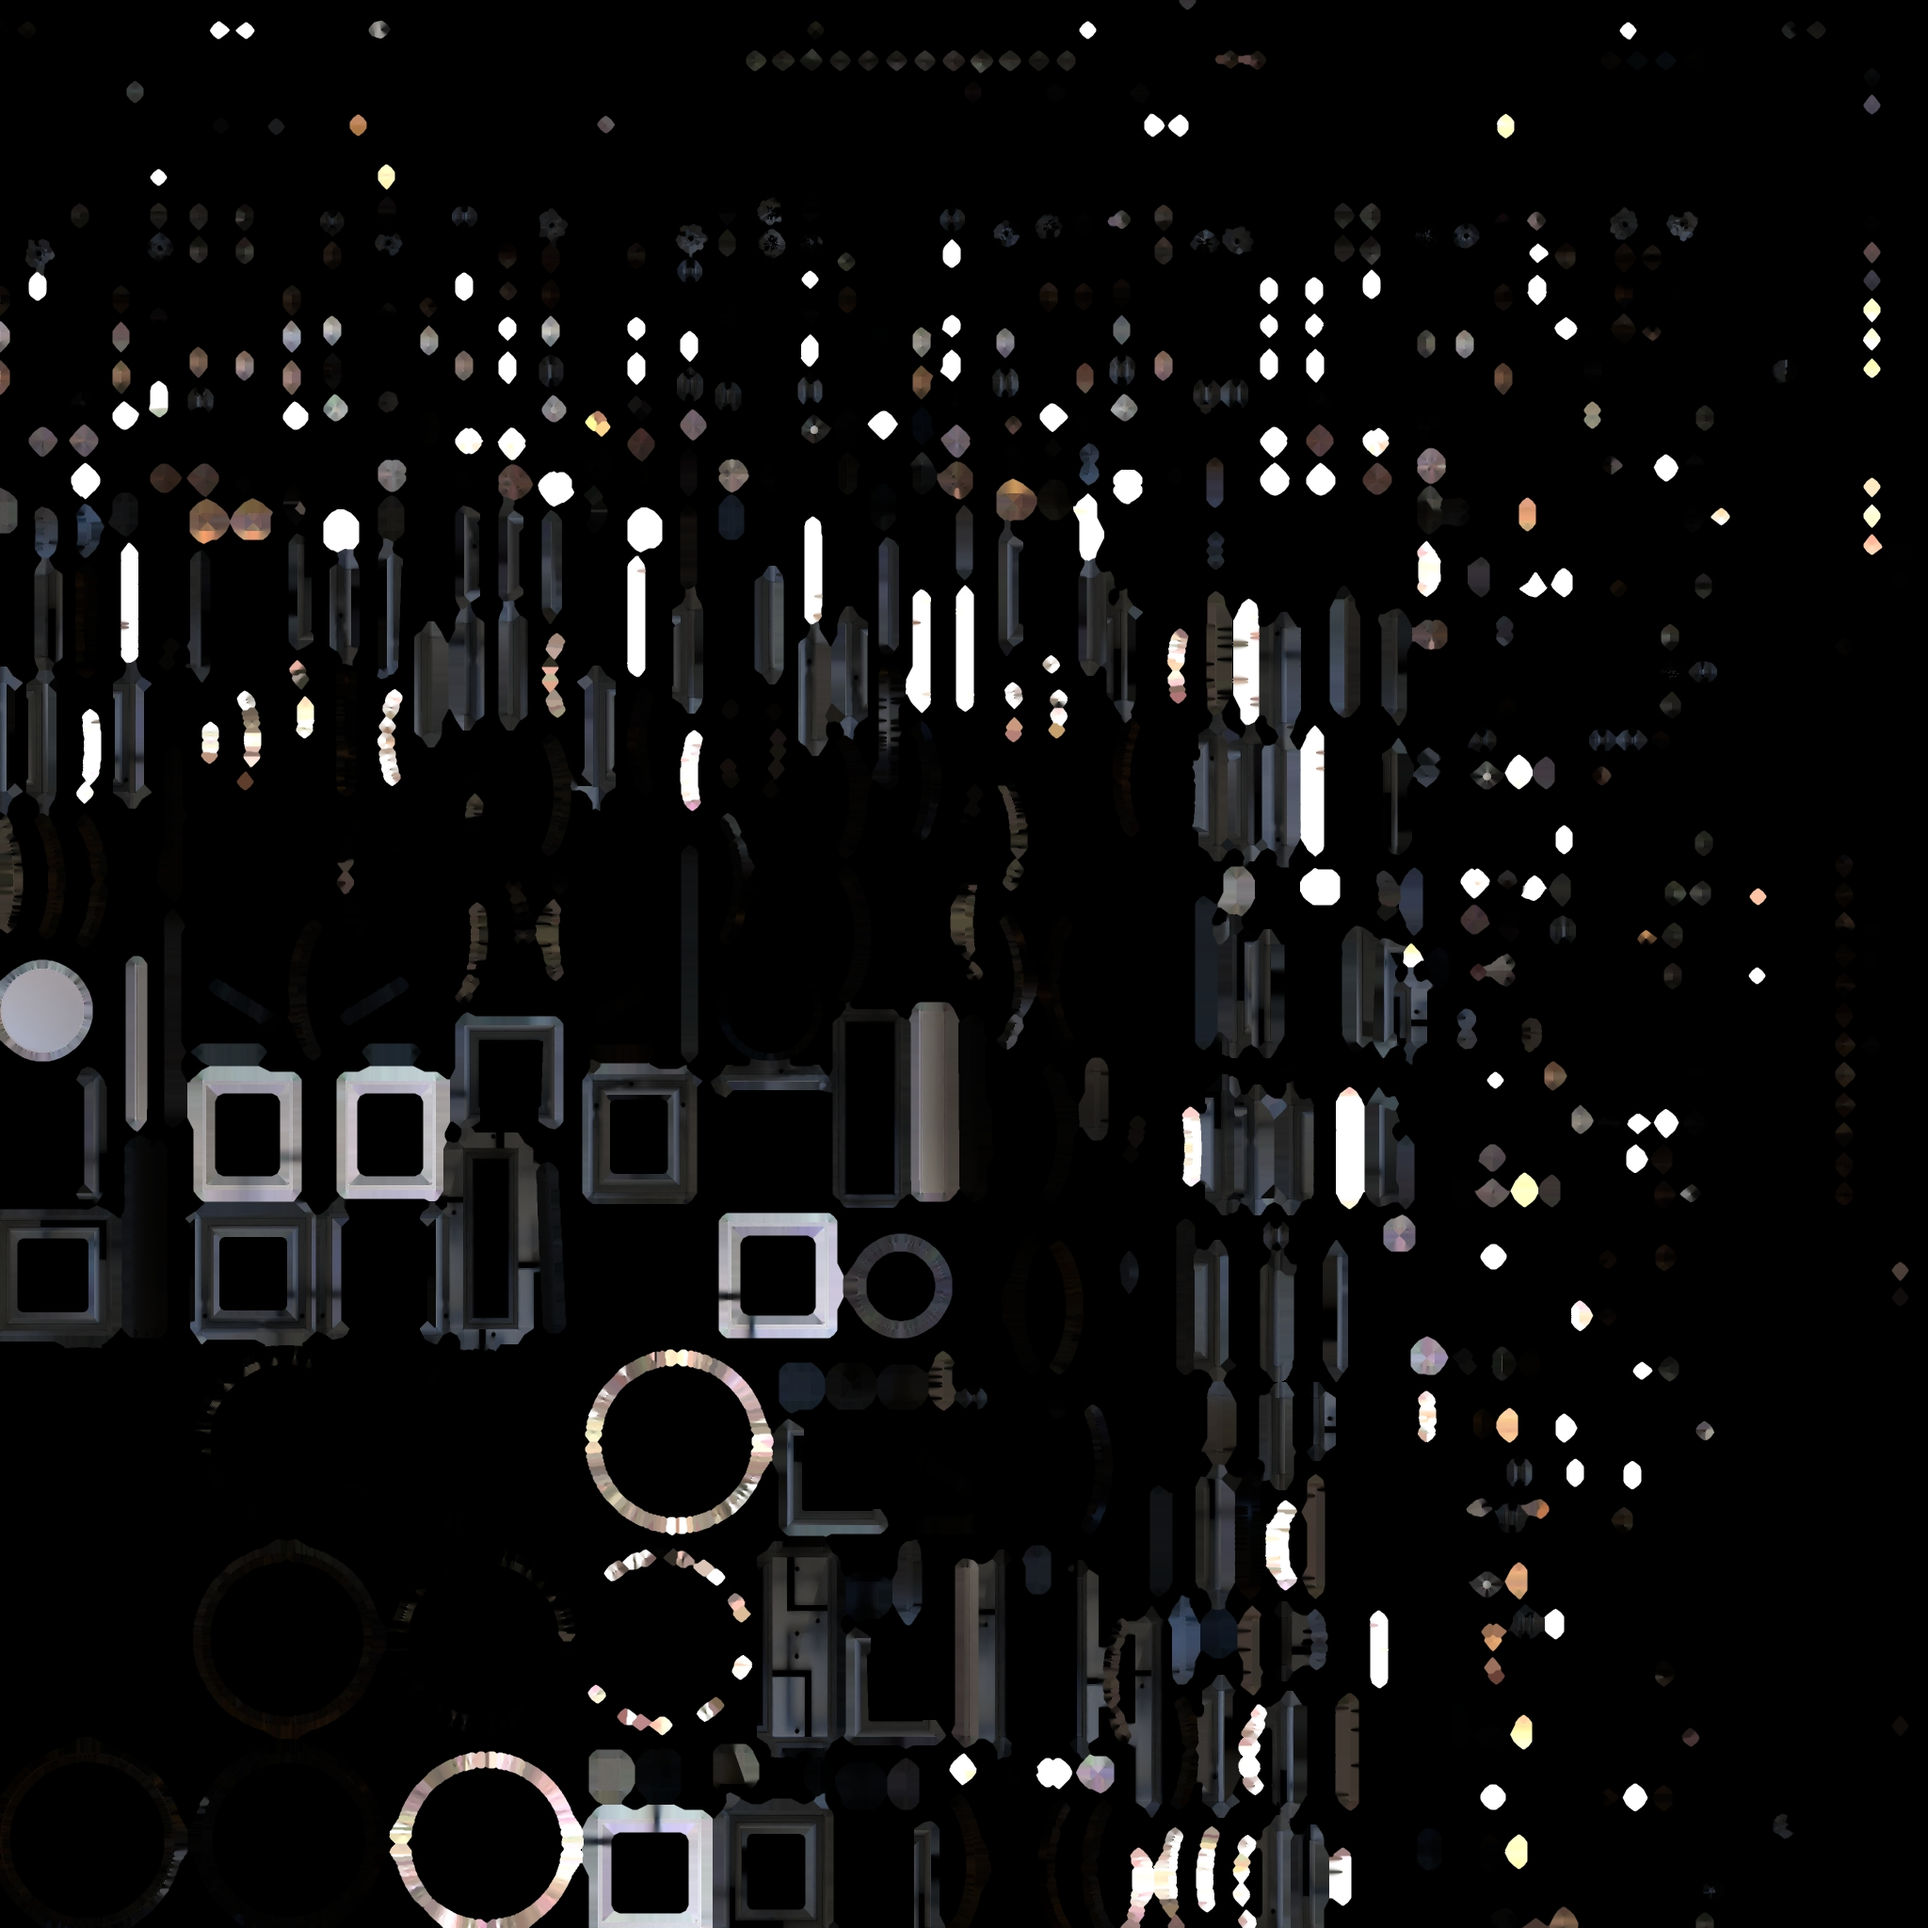
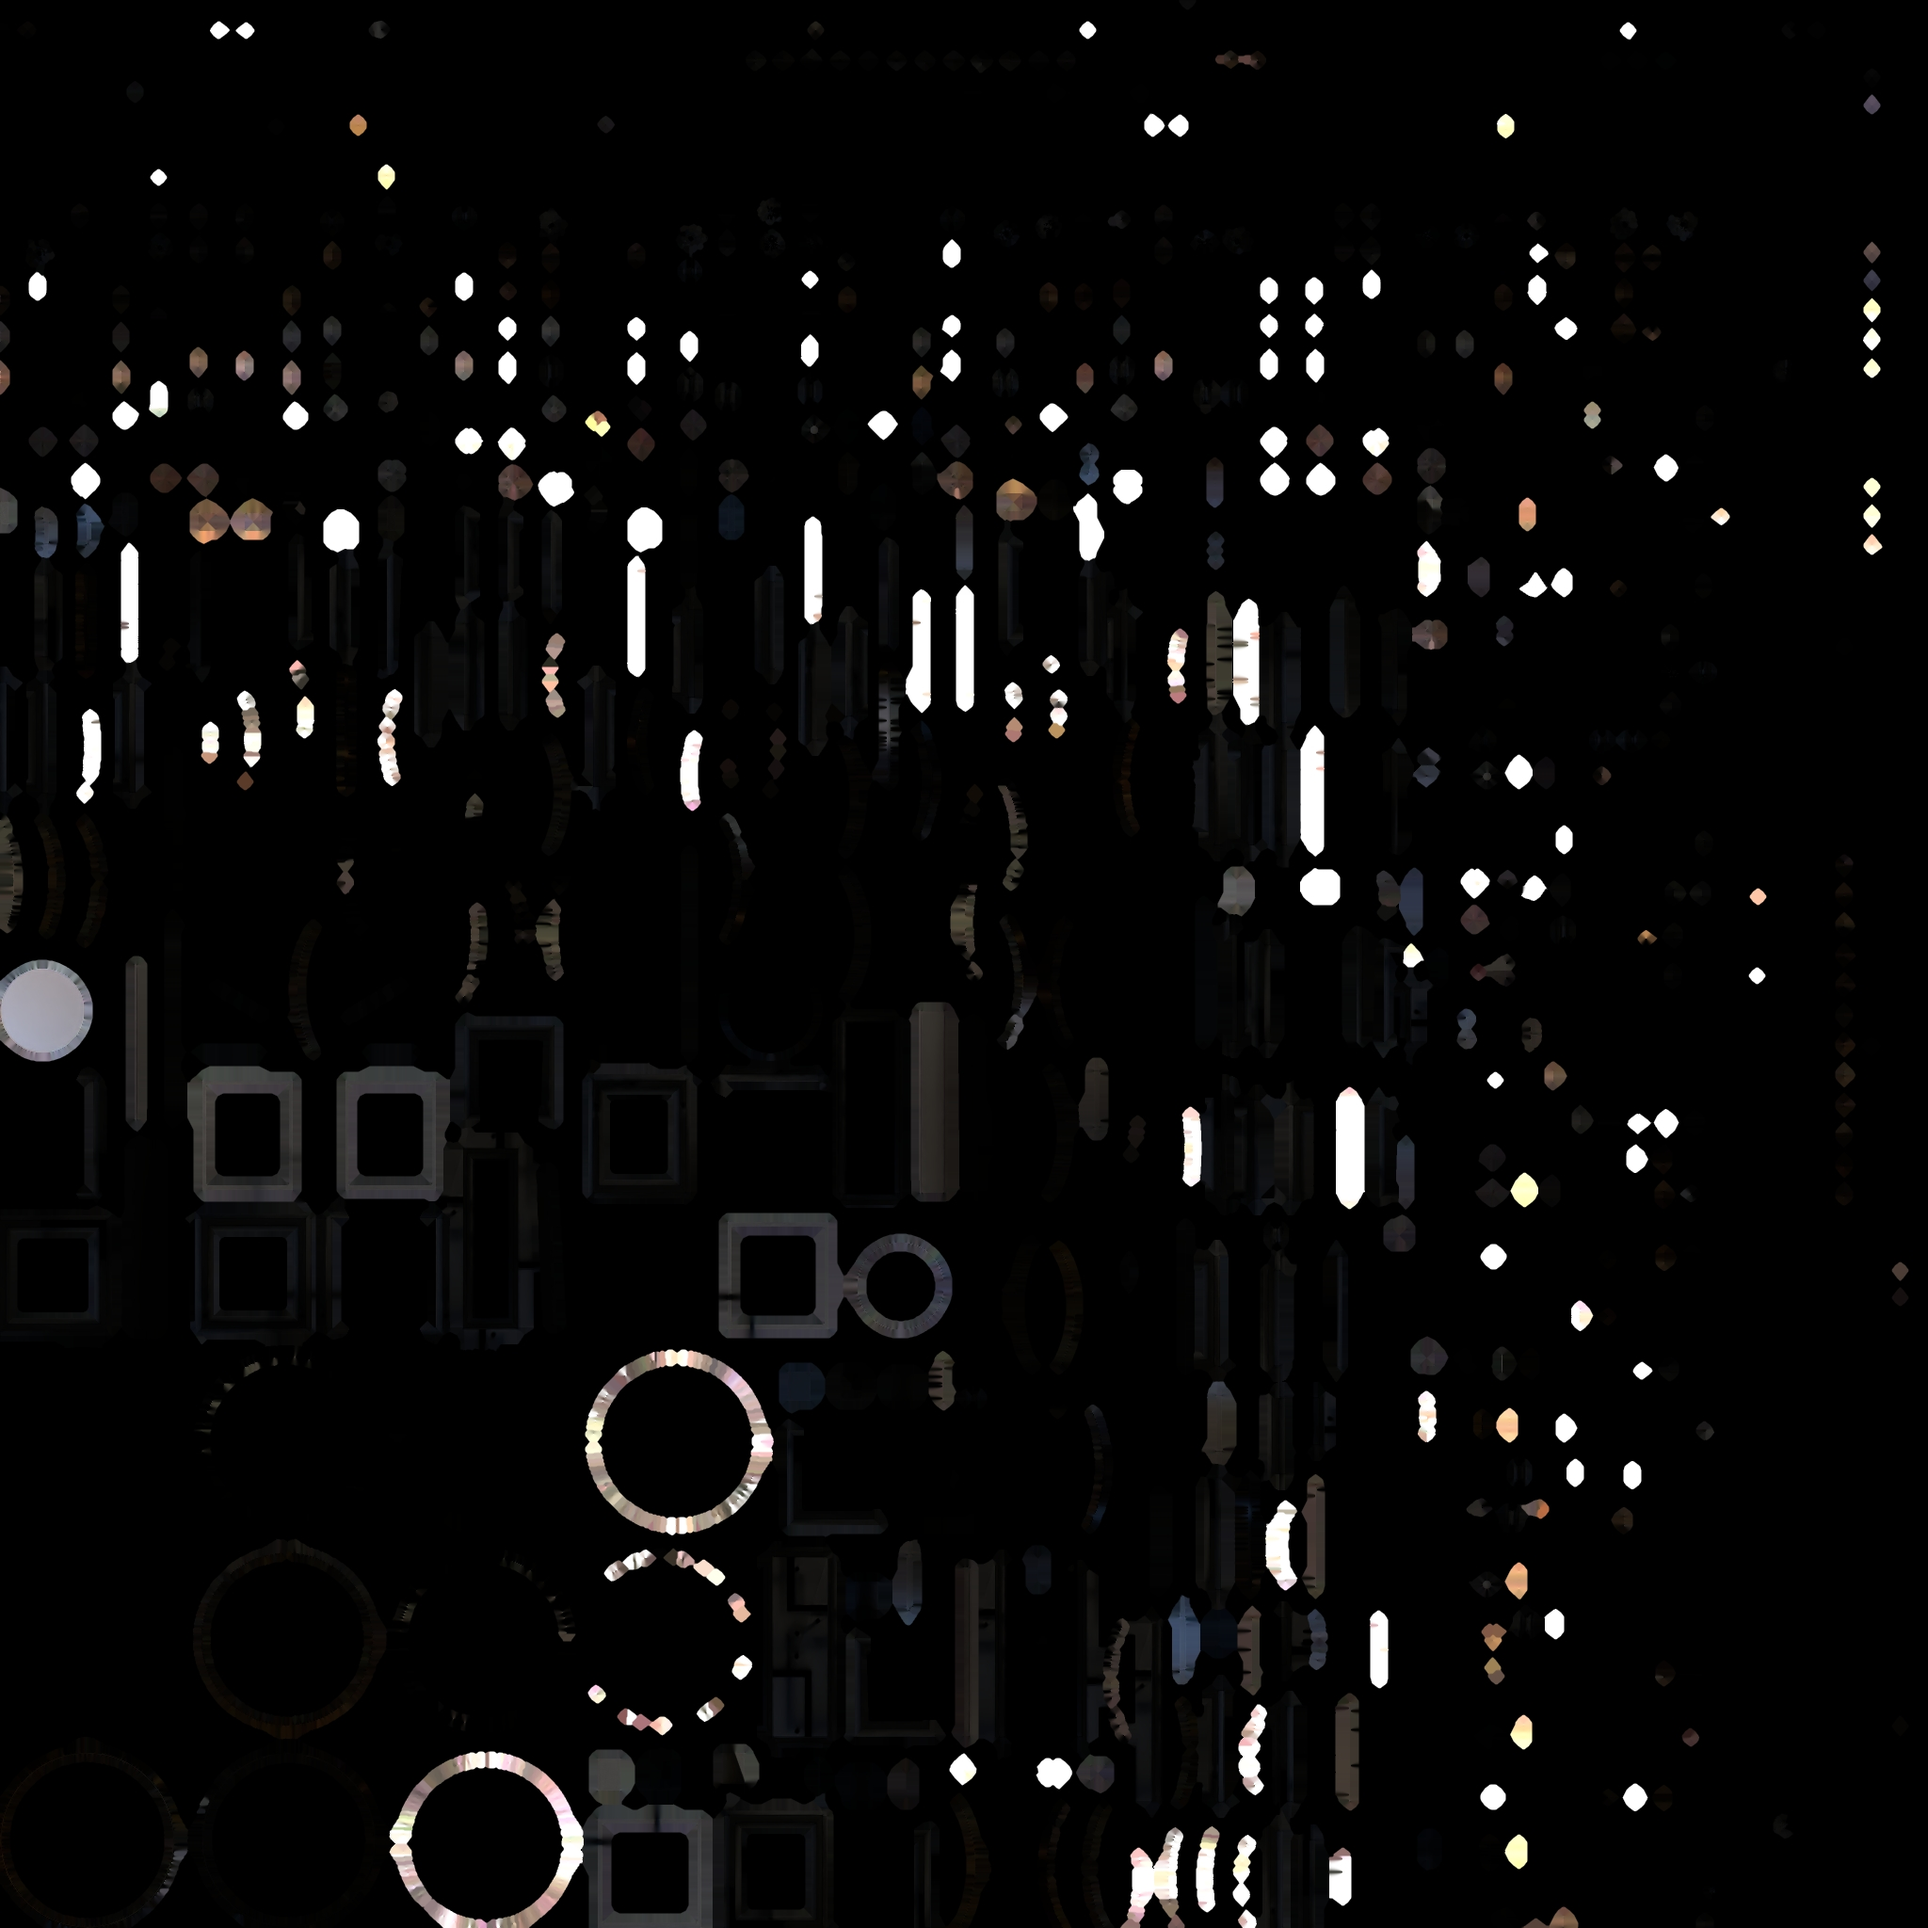
Models organized

diff --git a/src/pages/index.tsx b/src/pages/index.tsx
@@ -1,5 +1,5 @@
 import styles from "../styles/Home.module.css";
-import { useFrame, useThree } from '@react-three/fiber'
+import { useFrame, useThree, useLoader } from '@react-three/fiber'
 import { useGLTF, RandomizedLight, Stats, useTexture, MeshTransmissionMaterial, MeshReflectorMaterial, Html, AccumulativeShadows} from '@react-three/drei'
 import { useEffect, Suspense, useRef, useState, forwardRef, useContext } from "react"
 import { Vector3, DoubleSide, MathUtils, PerspectiveCamera, CatmullRomCurve3, Vector4 } from "three";
@@ -44,8 +44,8 @@ function Windows(props) {
 
 function Roof(props){
   const roof = useGLTF("Roof.glb");
-  const texture = new THREE.TextureLoader().load("Roof.jpg");
-  const textureShadow = new THREE.TextureLoader().load("RoofShadow.jpg");
+  const texture = useLoader(THREE.TextureLoader, "Roof.jpg")
+  const textureShadow = useLoader(THREE.TextureLoader, "RoofShadow.jpg")
 
   texture.flipY = false
   textureShadow.flipY = false
@@ -66,8 +66,8 @@ function Roof(props){
 
 function Floor(props) {
   const floor = useGLTF("Floor.glb");
-  const texture = new THREE.TextureLoader().load("Floor.jpg");
-  const textureShadow = new THREE.TextureLoader().load("FloorShadows.jpg");
+  const texture = useLoader(THREE.TextureLoader, "Floor.jpg")
+  const textureShadow = useLoader(THREE.TextureLoader, "FloorShadows.jpg")
 
   texture.flipY = false
   textureShadow.flipY = false
@@ -102,8 +102,8 @@ function Floor(props) {
 
 function Walls(props) {
   const { nodes } = useGLTF("untitled.glb")
-  const texture = new THREE.TextureLoader().load("Walls.jpg")
-  const textureShadow = new THREE.TextureLoader().load("WallsShadow.jpg")
+  const texture = useLoader(THREE.TextureLoader, "Walls.jpg")
+  const textureShadow = useLoader(THREE.TextureLoader, "WallsShadow.jpg")
 
   //customWallRef
 
@@ -134,22 +134,23 @@ function Room(props) {
   const woodWall = useGLTF("WoodWall.glb")
   const frame = useGLTF("Frame.glb")
   const light = useGLTF("Lights.glb")
+  
+  const sofaTexture = useLoader(THREE.TextureLoader, "Sofa.jpg")
+  const chairTexture = useLoader(THREE.TextureLoader, "Chair.jpg")
+  const tableTexture = useLoader(THREE.TextureLoader, "Table.jpg")
+  const tvStandTexture = useLoader(THREE.TextureLoader, "TvStand.jpg")
+  const woodWallTexture = useLoader(THREE.TextureLoader, "WoodWall.jpg")
+  const frameTexture = useLoader(THREE.TextureLoader, "Frame.jpg")
+  const lightTexture = useLoader(THREE.TextureLoader, "Light.jpg")
 
-  const sofaTexture = new THREE.TextureLoader().load("Sofa.jpg")
-  const chairTexture = new THREE.TextureLoader().load("Chair.jpg")
-  const tableTexture = new THREE.TextureLoader().load("Table.jpg")
-  const tvStandTexture = new THREE.TextureLoader().load("TvStand.jpg")
-  const woodWallTexture = new THREE.TextureLoader().load("WoodWall.jpg")
-  const frameTexture = new THREE.TextureLoader().load("Frame.jpg")
-  const lightTexture = new THREE.TextureLoader().load("Lights.jpg")
+  //const sofaTextureShadow = useLoader(THREE.TextureLoader, "SofaShadow.jpg")
+  //const chairTextureShadow = useLoader(THREE.TextureLoader, "ChairShadow.jpg")
+  const tableTextureShadow = useLoader(THREE.TextureLoader, "TableShadow.png")
+  //const tvStandTextureShadow = useLoader(THREE.TextureLoader, "TvStandShadow.jpg")
+  //const woodWallTextureShadow = useLoader(THREE.TextureLoader, "WoodWallShadow.jpg")
+  //const frameTextureShadow = useLoader(THREE.TextureLoader, "FrameShadow.jpg")
+  //const lightTextureShadow = useLoader(THREE.TextureLoader, "LightShadow.jpg")
 
-  const sofaTextureShadow = new THREE.TextureLoader().load("SofaShadow.jpg")
-  const chairTextureShadow = new THREE.TextureLoader().load("ChairShadow.jpg")
-  const tableTextureShadow = new THREE.TextureLoader().load("TableShadow.jpg")
-  const tvStandTextureShadow = new THREE.TextureLoader().load("TvStandShadow.jpg")
-  const woodWallTextureShadow = new THREE.TextureLoader().load("WoodWallShadow.jpg")
-  const frameTextureShadow = new THREE.TextureLoader().load("FrameShadow.jpg")
-  const lightTextureShadow = new THREE.TextureLoader().load("LightShadow.jpg")
 
   sofaTexture.flipY = false
   chairTexture.flipY = false
@@ -158,13 +159,18 @@ function Room(props) {
   woodWallTexture.flipY = false
   frameTexture.flipY = false
   lightTexture.flipY = false
-  sofaTextureShadow.flipY = false
-  chairTextureShadow.flipY = false
+  //sofaTextureShadow.flipY = false
+  //chairTextureShadow.flipY = false
   tableTextureShadow.flipY = false
-  tvStandTextureShadow.flipY = false
-  woodWallTextureShadow.flipY = false
-  frameTextureShadow.flipY = false
-  lightTextureShadow.flipY = false
+  //tvStandTextureShadow.flipY = false
+  //woodWallTextureShadow.flipY = false
+  //frameTextureShadow.flipY = false
+  //lightTextureShadow.flipY = false
+
+  if (props.customTableRef.current != null && props.customTableRef.current.uniforms.ftexture.value == null) {
+    props.customTableRef.current.uniforms.ftexture.value = tableTexture;
+    props.customTableRef.current.uniforms.stexture.value = tableTextureShadow;
+  }
 
   return (
     <>
@@ -178,8 +184,8 @@ function Room(props) {
           <meshPhysicalMaterial map={chairTexture}/>
         </mesh>
 
-         <mesh geometry={table.nodes.Table001.geometry}>
-          <meshPhysicalMaterial map={tableTexture}/>
+        <mesh geometry={table.nodes.Table001.geometry}>
+          <ShadersTexture ref={props.customTableRef} />
         </mesh>
 
         <mesh geometry={tvStand.nodes.Cube001.geometry}>
@@ -469,6 +475,7 @@ export default function HomeCanvas(props) {
   const floorShadersRef = useRef(null);
   const wallShadersRef = useRef(null);
   const roofShadersRef = useRef(null);
+  const tableShadersRef = useRef(null);
   
   const sceneContext = useContext(ButtonContext);
 
@@ -505,6 +512,7 @@ export default function HomeCanvas(props) {
       floorShadersRef.current.uniforms.time.value = Math.sin(state.clock.elapsedTime * 0.5) * 30
       wallShadersRef.current.uniforms.time.value = Math.sin(state.clock.elapsedTime * 0.5) * 30
       roofShadersRef.current.uniforms.time.value = Math.sin(state.clock.elapsedTime * 0.5) * 30
+      tableShadersRef.current.uniforms.time.value = Math.sin(state.clock.elapsedTime * 0.5) * 30
     }
 
     if (animate.current || sceneContext.returning.current) {
@@ -543,7 +551,6 @@ export default function HomeCanvas(props) {
       camera.quaternion.normalize()
       linearX.current = normalizedX.current
     }
-    
   });
 
   return (
@@ -587,7 +594,7 @@ export default function HomeCanvas(props) {
         <Walls customWallRef={wallShadersRef} ios={"true"}/>
         <Windows />
 
-        <Room />
+        <Room customTableRef={tableShadersRef}/>
         <Kitchen/>
         <Balcony/>
 
